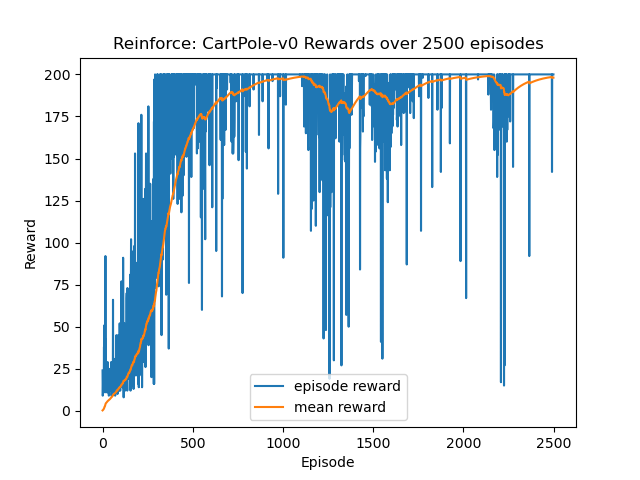
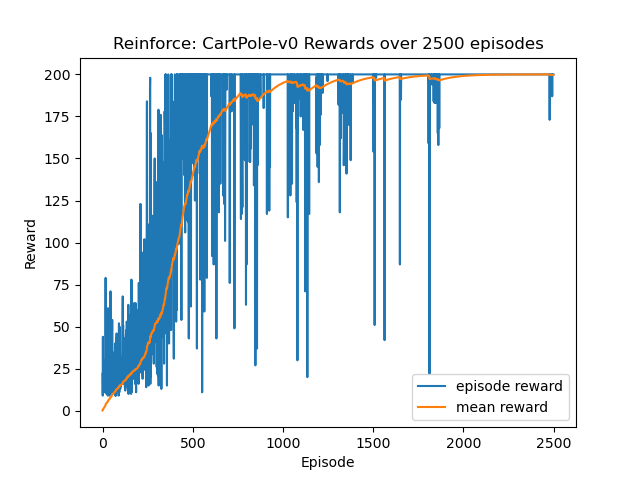
Update window size to 25

Changed region(s): [[0.1562, 0.125, 0.9062, 0.875], [0.625, 0.8438, 0.6875, 0.875], [0.4062, 0.8438, 0.4375, 0.875]]

diff --git a/Reinforce/main.py b/Reinforce/main.py
@@ -27,7 +27,7 @@ parser.add_argument('--target', default=195, type=int,
                     help='Solved at target (default: 195)')
 parser.add_argument('--baseline', default=True, type=bool,
                     help='use reinforce with baseline (default: false)')
-parser.add_argument('--window-size', default=10, type=int,
+parser.add_argument('--window-size', default=25, type=int,
                     help='Window size to calculate variance (default: 10)')
 
 
